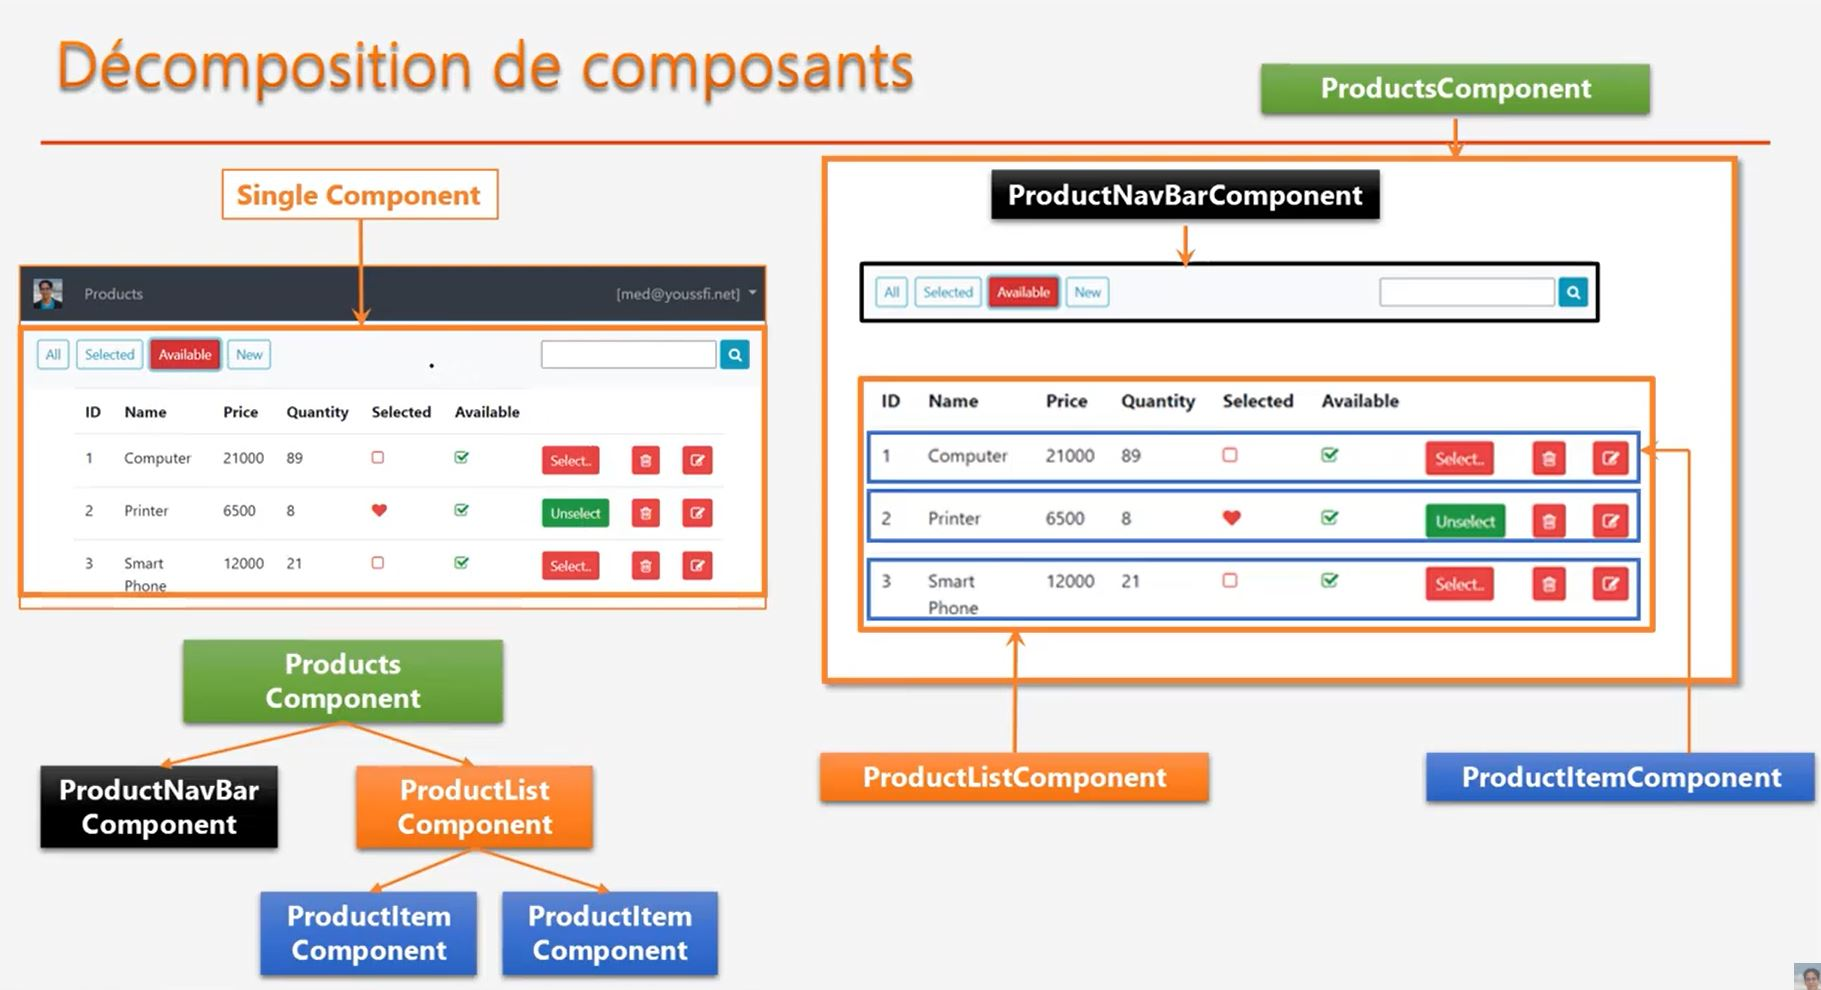
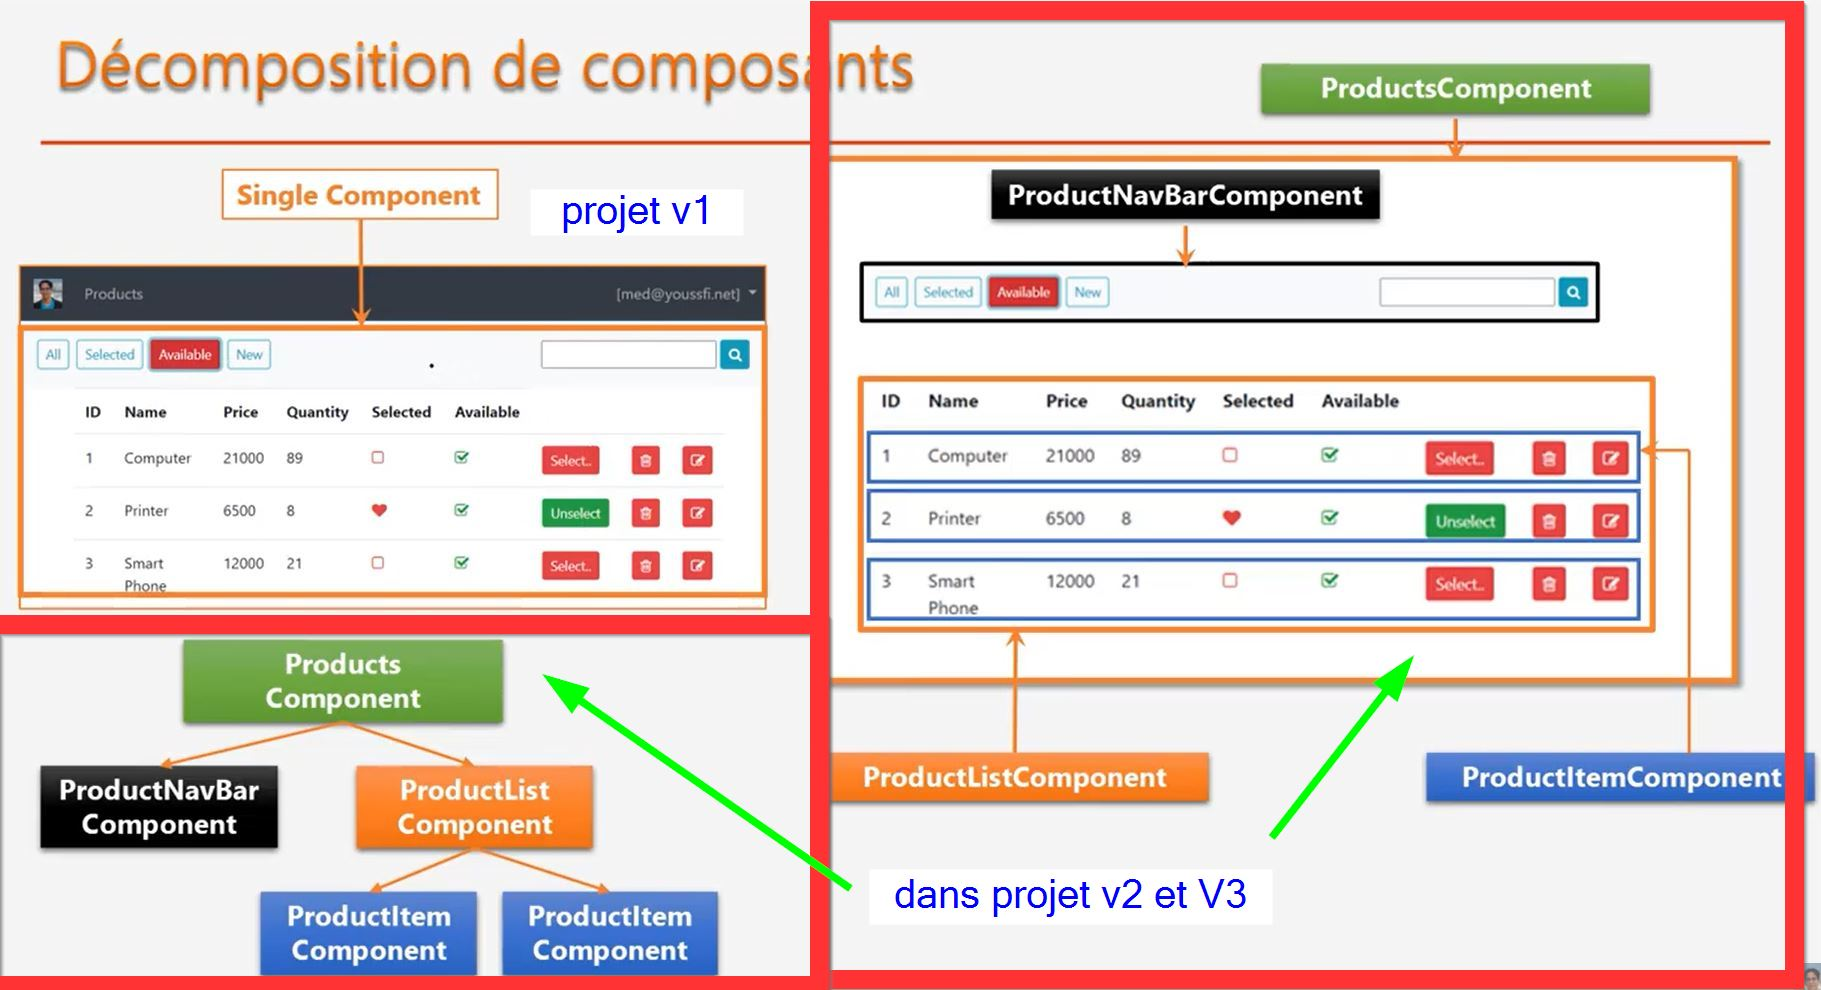
first commit

diff --git a/README.md b/README.md
@@ -1,9 +1,40 @@
-# Application utlisant le framework angular 11  ( projet avec unique composant)
+# Application V2 utlisant le framework angular 11  ( projet avec décomposition de composants et utlisation de @Input @Output Angular)
+
+**Input** : signifie pour un composant donné de rececoir des données d'un autres composants
+
+**Outup** : Signifie qu'un composant emet un evenement vers le composant qui l'instancie ( ou lui fait appel dans sa page html)
+
+ 
+ 
+ #### Avantage et inconvenient de Input et Output
+**Avantage:** decompositions de l'application par composants au lieu d'un unique compoant
+
+**Inconvenient:**  La decomposition de l'application en composants plus petits induit des appels en cascade pour remonté tous la branche jusqu'à l'appel de la fonction principale.
 
 
 https://ultimatecourses.com/blog/angular-ngfor-async-pipe
 
-![](doc/images/singleComposant.jpg)
+Emettre un evenement sur sa sortie. Exemple select, delete , edit ....  dans le composant **Products-List.Component.ts**
+
+````angular2
+  @Output() productEventEmitterListProduct: EventEmitter<ActionEvent> = new EventEmitter();
+````
+Recevoir des données sur son entrée dans le composant **Products-List.Component.ts**. pour exemple listProductsInput va lui etre affecté la liste des produit dans le composant principal **Products.Component.ts**, qu'il devra ensuite affiché. 
+
+````angular2
+  @Input() public listProductsInput$: Observable<AppDataState<Product[]>> | null = null;
+````
+
+dans le composant principal **Products.Component.html**
+
+````angular2
+(productEventEmitterListProduct)="onActionEventProductsList($event)
+````
+
+**[listProductsInput$]=products$** faire reférence à **input**
+
+**(productEventEmitterListProduct)=onActionEventProductsList($event)**  fait réfénrece à **Output**
+
 ## Application angular 11
 
 
@@ -201,6 +232,22 @@ Modifier le fichier angular.json comme suit
 
 
 ````shell script
+λ ng g c components/products/products-nav-bar
+CREATE src/app/components/products/products-nav-bar/products-nav-bar.component.html (31 bytes)
+CREATE src/app/components/products/products-nav-bar/products-nav-bar.component.spec.ts (684 bytes)
+CREATE src/app/components/products/products-nav-bar/products-nav-bar.component.ts (313 bytes)
+CREATE src/app/components/products/products-nav-bar/products-nav-bar.component.css (0 bytes)
+UPDATE src/app/app.module.ts (1256 bytes)
+
+λ ng g c components/products/products-list
+CREATE src/app/components/products/products-list/products-list.component.html (28 bytes)
+CREATE src/app/components/products/products-list/products-list.component.spec.ts (669 bytes)
+CREATE src/app/components/products/products-list/products-list.component.ts (302 bytes)
+CREATE src/app/components/products/products-list/products-list.component.css (0 bytes)
+UPDATE src/app/app.module.ts (1385 bytes)
+
+----------------------------------------------------
+
  ng g c components/nav-bar
 CREATE src/app/components/nav-bar/nav-bar.component.html (22 bytes)
 CREATE src/app/components/nav-bar/nav-bar.component.spec.ts (627 bytes)
@@ -329,13 +376,11 @@ il faut faire appelle à la calsse ActivatedRoute.snpashot.params.id
     this.productId = activatedRoute.snapshot.params.id;
 
 ## Etat de l'application: methode input output d'angular.
-![](doc/images/outputinput.jpg)
-
-## Etat de l'application: methode ngRx. ( préféré)
-le défaut de la méthode **input output** d'Angular deviens assez compliquer pour de grosse application. Il faut donc préféré **ngRx** à la place.
-![](doc/images/ngrx.jpg)
-
-il faut pour cela decomposer l'application en composant
 ![](doc/images/composants.jpg)
+
+## Etat de l'application: methode ngRx. ( préféré). projet v3
+![](doc/images/ngrx.jpg)
+le défaut de la méthode **input output** d'Angular deviens assez compliquer pour de grosse application. Il faut donc préféré **ngRx** à la place qui s'appuye sur **EventSubjectService**
+![](doc/images/outputinput.jpg)
 
 
